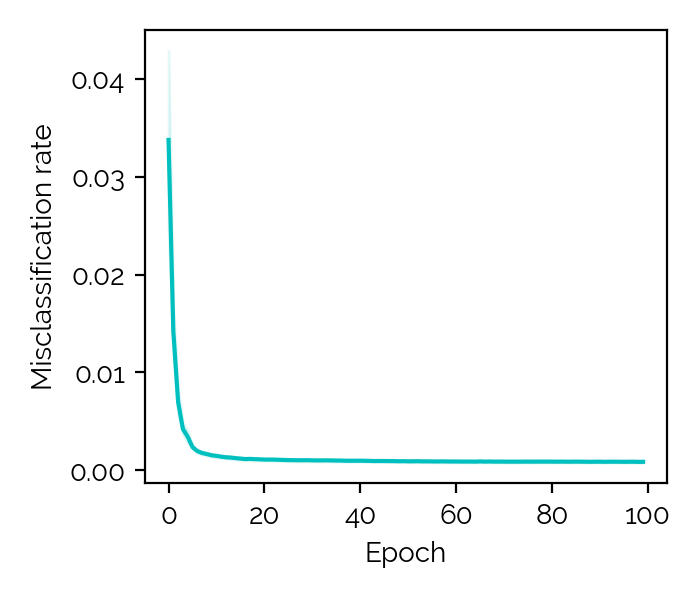
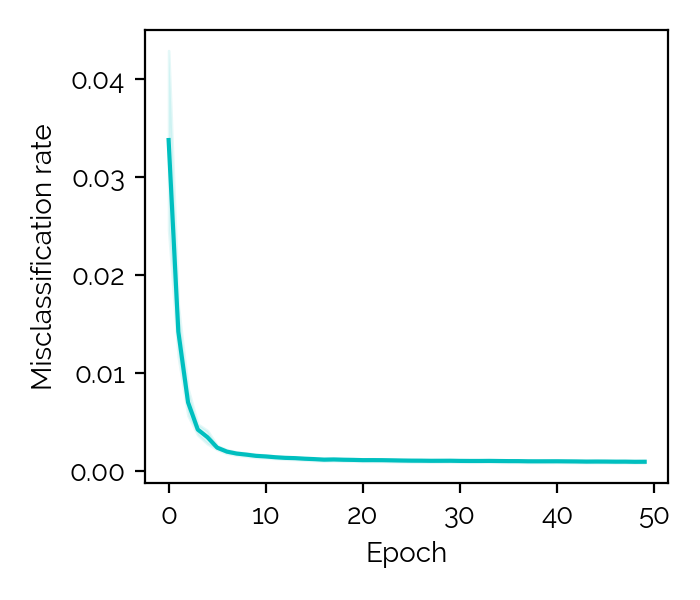
Update tsp comp plotting.

diff --git a/qubo_nn/plots/plot_tsp_comp.py b/qubo_nn/plots/plot_tsp_comp.py
@@ -44,17 +44,22 @@ def gen_table(kv):
         print(k, "R2", "%.3f" % mean, "+-", "%.3f" % range_)
 
 
-def plot(kv):
-    tags = {
-        'tsp2_r2': 'old model',
-        'tsp_gen1': 'new model'
+PLOT_TAGS = [
+    {
+        'tsp2_r2': 'Old Model',
+        'tsp_gen1': 'New Model'
+    },
+    {
+        'tsp_gen1_81': 'QUBO size 81x81'
     }
+]
+PLOT_NAMES = ['comp', '81']
 
+
+def plot(kv, tags, name):
     fig, axs = plt.subplots(1, 1, figsize=(5, 3.5))
 
     def calc_ci(ax, key, arr):
-        # arr = arr[~np.isnan(arr)]
-        # arr = arr[arr != 0.]
         mean = np.mean(arr, axis=0)
         ci = st.t.interval(
             0.95,
@@ -78,20 +83,20 @@ def plot(kv):
         axs.set_ylabel(r'$R^2$')
         axs.set_xlabel("Epoch")
 
-    # plt.legend(loc='center left', bbox_to_anchor=(1, 0.5), frameon=False)
     plt.legend(frameon=False)
-    plt.ylim((0.95, 1.02))
+    plt.ylim((0.95, 1.01))
     plt.tight_layout()
     plt.show()
-    fig.savefig(NAME + '.png')
-    fig.savefig(NAME + '.pdf')
+    fig.savefig(NAME + '_' + name + '.png')
+    fig.savefig(NAME + '_' + name + '.pdf')
 
 
 def run():
     with open(NAME + '.pickle', 'rb') as f:
         kv = pickle.load(f)
     gen_table(kv)
-    plot(kv)
+    plot(kv, PLOT_TAGS[0], PLOT_NAMES[0])
+    plot(kv, PLOT_TAGS[1], PLOT_NAMES[1])
 
 
 if __name__ == '__main__':

diff --git a/qubo_nn/plots/plot_tot_mc_gen4.py b/qubo_nn/plots/plot_tot_mc_gen4.py
@@ -75,6 +75,8 @@ def plot(id_):
     with open('tot_misclassifications_gen4_%s.pickle' % id_, 'rb') as f:
         arr1, confusion_matrix = pickle.load(f)
 
+    arr1 = arr1[:, :50]
+
     fig, ax = plt.subplots(figsize=(3.5, 3))
 
     def sub_plot(arr, col):
